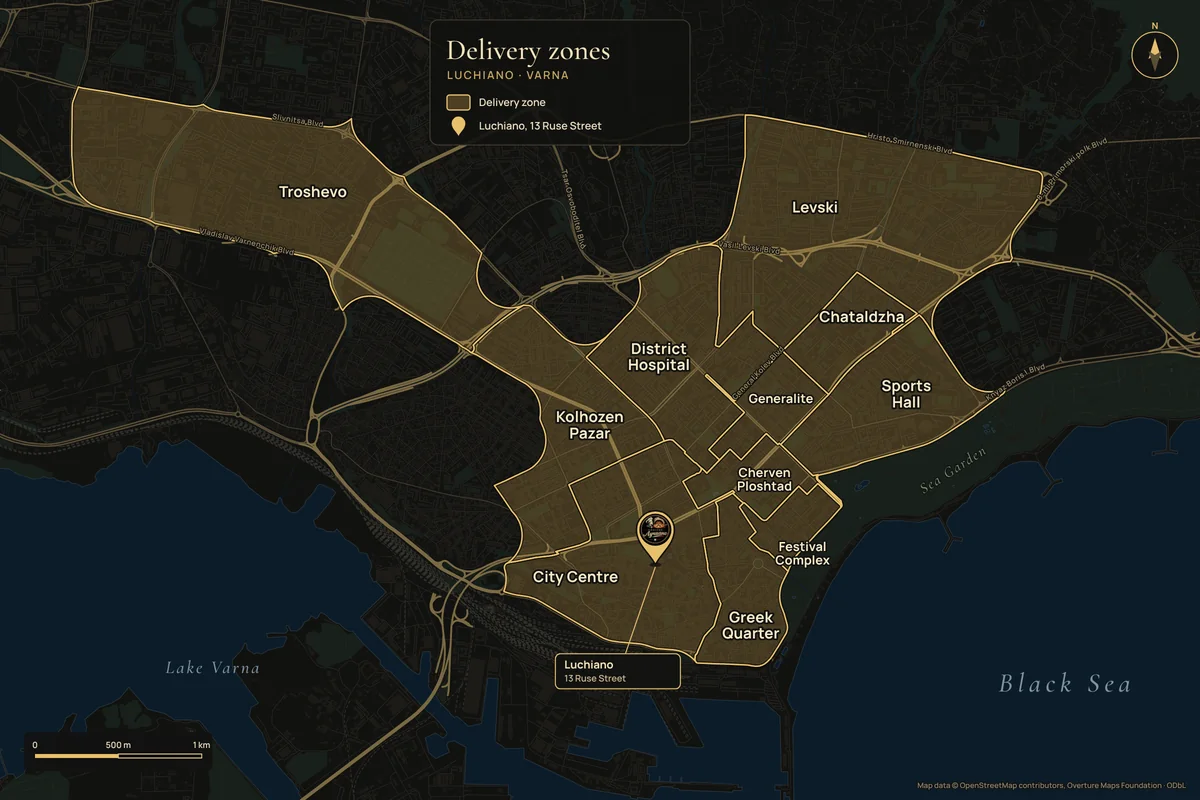
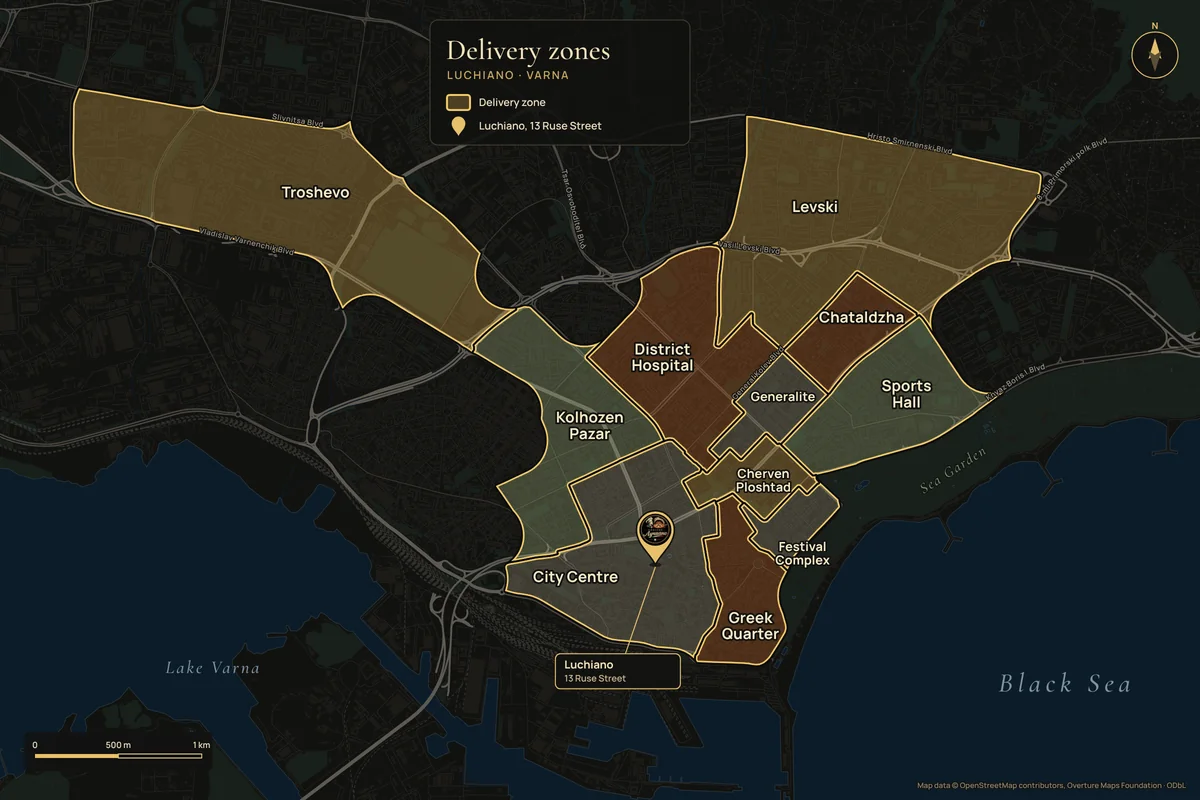
Make delivery zone borders easier to see
Neighbouring zones now get different tones (gold, copper, champagne and
sage, spread evenly), and every border is a dark dividing line with a
bright gold edge on the inside of each zone. Roads are drawn in neutral
grey so they no longer read as zone borders.

Zone shapes drop road-width slivers that poked into neighbours, and the
cracks this leaves go to the surrounding zone.

Claude-Session: https://claude.ai/code/session_01CNQVpL1QDFGhe1sJfbfZgc

diff --git a/scripts/delivery-map/render.py b/scripts/delivery-map/render.py
@@ -35,16 +35,18 @@ C = {
     'building': '#1c1b17',
     'water': '#0c1c29',
     'coast': '#2c3a44',
-    'minor': '#2b2924',
-    'tertiary': '#3e392d',
-    'secondary': '#5a4e36',
-    'primary': '#7a6942',
+    # Roads stay neutral so the gold zone borders stand out from them.
+    'minor': '#272623',
+    'tertiary': '#36342f',
+    'secondary': '#48453f',
+    'primary': '#5d5951',
     'rail': '#34332d',
     'zone_fill': '#d8aa4f',
-    'zone_line': '#e7c06c',
+    'zone_line': '#f0c86a',
+    'zone_divider': '#0b0b09',
     'label': '#f7e9c6',
     'halo': '#121210',
-    'street': '#a0906a',
+    'street': '#9c9586',
     'context': '#7d93a3',
     'park_label': '#6f8b6a',
 }
@@ -240,6 +242,29 @@ def base_map(segs, water, land_use, land, buildings):
     return out, wet
 
 
+# Fill (colour, opacity) per zone; neighbouring zones never share a tone.
+ZONE_TONES = [
+    ('#e2b04e', 0.30),
+    ('#c4682c', 0.32),
+    ('#f2e4c0', 0.20),
+    ('#a9bd84', 0.30),
+]
+
+
+def zone_tones(zones):
+    names = list(zones)
+    touching = {
+        a: {b for b in names if b != a and zones[a].distance(zones[b]) < 5} for a in names
+    }
+    tones, count = {}, [0] * len(ZONE_TONES)
+    for zone in sorted(names, key=lambda z: -len(touching[z])):
+        used = {tones[n] for n in touching[zone] if n in tones}
+        # Least-used allowed tone, so all tones appear evenly.
+        tones[zone] = min((i for i in range(len(ZONE_TONES)) if i not in used), key=lambda i: (count[i], i))
+        count[tones[zone]] += 1
+    return tones
+
+
 def street_paths(segs, lang):
     defs, texts = [], []
     for i, name in enumerate(STREETS):
@@ -332,7 +357,16 @@ def render(lang, zones, layers):
     base, wet = base_map(*layers)
     street_defs, street_texts = street_paths(segs, lang)
 
-    zone_fill = ''.join(f'<path d="{poly_d(g)}"/>' for g in zones.values())
+    tones = zone_tones(zones)
+    zone_paths = {z: poly_d(g) for z, g in zones.items()}
+    zone_fill = ''.join(
+        f'<path d="{d}" fill="{ZONE_TONES[tones[z]][0]}" fill-opacity="{ZONE_TONES[tones[z]][1]}"/>'
+        for z, d in zone_paths.items()
+    )
+    zone_clips = ''.join(f'<clipPath id="zone{i}"><path d="{d}"/></clipPath>' for i, d in enumerate(zone_paths.values()))
+    # Each zone gets a gold edge on its inside; a dark line then separates neighbours.
+    zone_edges = ''.join(f'<path d="{d}" clip-path="url(#zone{i})"/>' for i, d in enumerate(zone_paths.values()))
+    zone_lines = ''.join(f'<path d="{d}"/>' for d in zone_paths.values())
 
     labels = []
     for zone, g in zones.items():
@@ -402,7 +436,7 @@ def render(lang, zones, layers):
   <rect width="520" height="250" rx="16" fill="#121210" fill-opacity=".9" stroke="#3e392d" stroke-width="2"/>
   <text class="title" x="32" y="78">{html.escape(t["title"])}</text>
   <text class="subtitle" x="34" y="118">{html.escape(t["subtitle"])}</text>
-  <rect x="34" y="150" width="46" height="30" rx="5" fill="{C["zone_fill"]}" fill-opacity=".3" stroke="{C["zone_line"]}" stroke-width="2.5"/>
+  <rect x="34" y="150" width="46" height="30" rx="5" fill="{C["zone_fill"]}" fill-opacity=".3" stroke="{C["zone_line"]}" stroke-width="4"/>
   <text class="legend" x="98" y="172">{html.escape(t["legend_zone"])}</text>
   <path transform="translate(57 232) scale(.36)" d="M0 0 C-10 -22 -38 -40 -38 -70 A38 38 0 1 1 38 -70 C38 -40 10 -22 0 0Z" fill="#e7c06c"/>
   <text class="legend" x="98" y="219">{html.escape(t["legend_pin"])}</text>
@@ -431,14 +465,15 @@ def render(lang, zones, layers):
     return f'''<svg xmlns="http://www.w3.org/2000/svg" width="{W}" height="{H}" viewBox="0 0 {W} {H}">
 <defs>
   <clipPath id="badge"><circle cx="0" cy="-70" r="31"/></clipPath>
+  {zone_clips}
   {''.join(street_defs)}
   <style>{css}</style>
 </defs>
 <rect width="{W}" height="{H}" fill="{C["land"]}"/>
 {''.join(base)}
-<g fill="{C["zone_fill"]}" fill-opacity=".24">{zone_fill}</g>
-<g fill="none" stroke="#000" stroke-opacity=".6" stroke-width="7" stroke-linejoin="round">{zone_fill}</g>
-<g fill="none" stroke="{C["zone_line"]}" stroke-width="3" stroke-linejoin="round">{zone_fill}</g>
+<g>{zone_fill}</g>
+<g fill="none" stroke="{C["zone_line"]}" stroke-width="10" stroke-linejoin="round">{zone_edges}</g>
+<g fill="none" stroke="{C["zone_divider"]}" stroke-width="3.5" stroke-linejoin="round">{zone_lines}</g>
 {''.join(street_texts)}
 {''.join(context)}
 {''.join(labels)}

diff --git a/scripts/delivery-map/zones.py b/scripts/delivery-map/zones.py
@@ -231,7 +231,8 @@ def build():
         assigned[zone].append(gap)
 
     def unions():
-        return {z: unary_union(parts).buffer(4).buffer(-4) for z, parts in assigned.items()}
+        # Close hairline cracks, then drop road-width slivers (under ~16 m) that poke into neighbours.
+        return {z: unary_union(parts).buffer(4).buffer(-4).buffer(-8).buffer(8) for z, parts in assigned.items()}
 
     # A fragment cut off from its zone's main body joins the neighbour it shares
     # the longest border with; isolated crumbs are dropped.
@@ -254,6 +255,18 @@ def build():
         if u.geom_type == 'MultiPolygon':
             biggest = max(u.geoms, key=lambda g: g.area)
             zones[zone] = unary_union([g for g in u.geoms if g.area > 0.15 * biggest.area])
+
+    # Removing slivers can leave thin cracks; each goes to the zone around it.
+    taken = unary_union(list(zones.values()))
+    closed = taken.buffer(GAP_FILL).buffer(-GAP_FILL)
+    closed = unary_union([shapely.Polygon(p.exterior) for p in getattr(closed, 'geoms', [closed])])
+    cracks = closed.difference(taken).intersection(land)
+    for crack in getattr(cracks, 'geoms', [cracks]):
+        if crack.geom_type != 'Polygon' or crack.is_empty:
+            continue
+        edge = crack.buffer(3)
+        zone = max(zones, key=lambda n: edge.intersection(zones[n]).area)
+        zones[zone] = unary_union([zones[zone], crack]).buffer(2).buffer(-2)
     return zones, seeds
 
 
